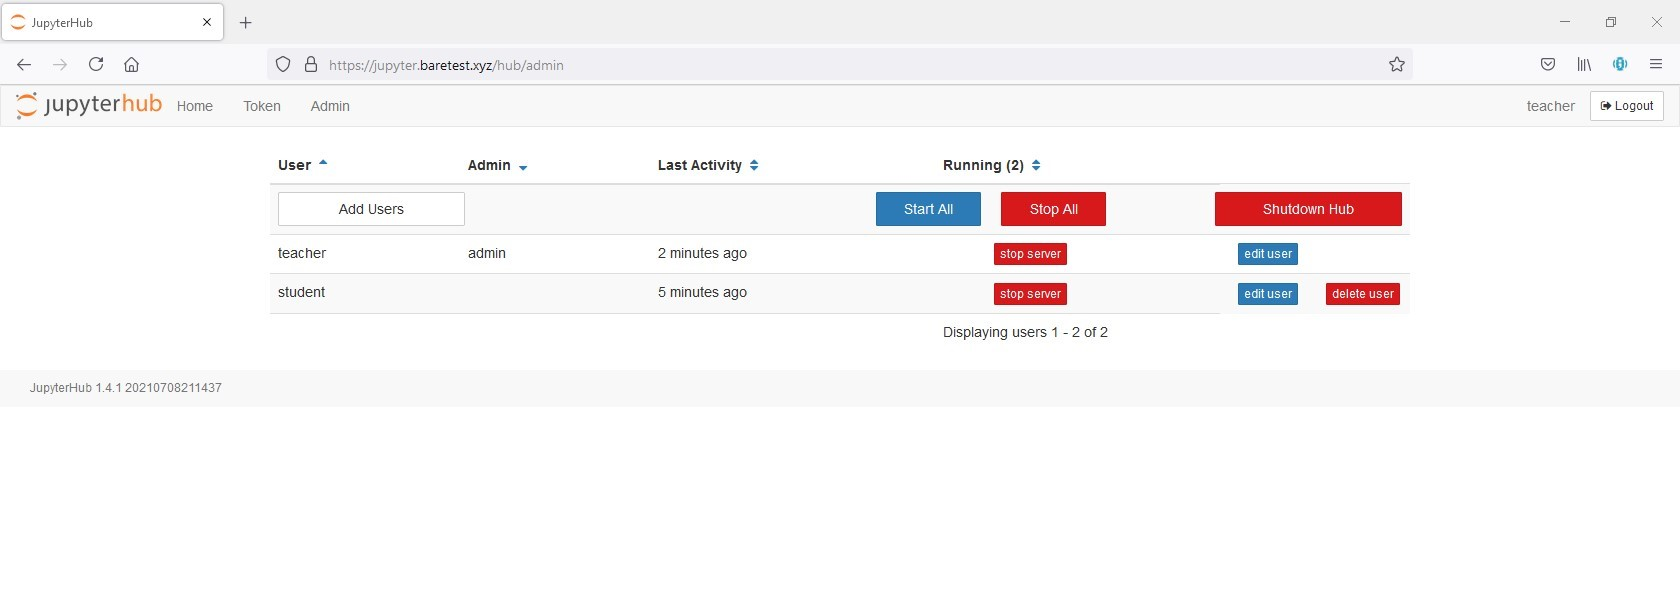
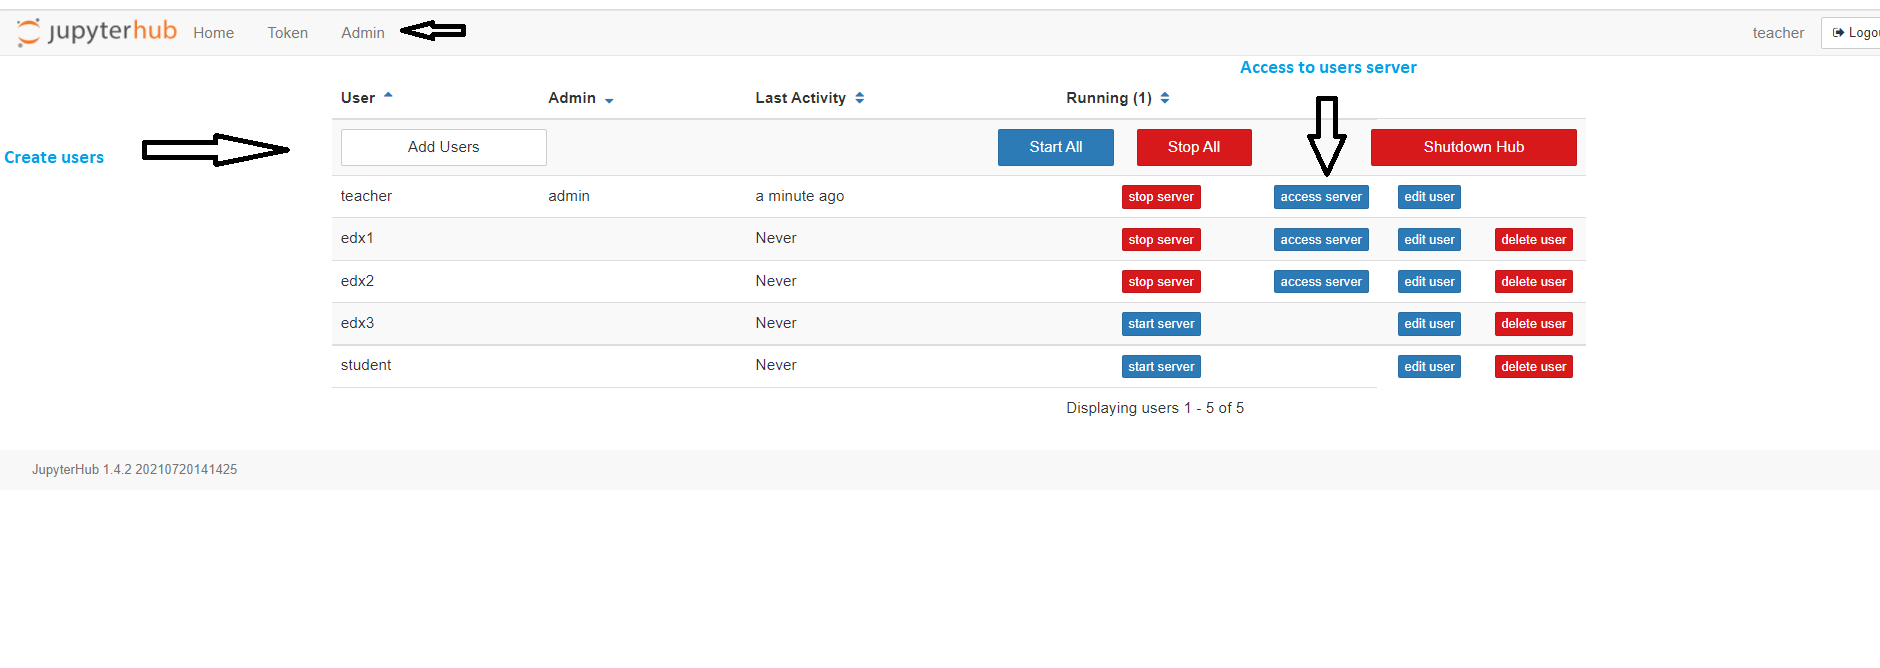
Readme updated

diff --git a/README.md b/README.md
@@ -39,7 +39,16 @@ Jupyterhub XBlock comes with to main users " student (password: solo) " and " te
 
 - You need to create a notebook for students view in your course.To do that click to " `Start JupyterHub in new tab`" login as " student " password is "solo". Then New => Python3(ipykernel). dobbel click to "Untitled" and rename it whatever you want.
 
-![](/src/demoNotebook.jpg)
+### JupyterLab:
+
+JupyterLab is next-generations, great advanced tools for everyone. Not just a notebook,that comes with text editor, console, terminal and much more. For more information please visit https://jupyterlab.readthedocs.io/en/stable/getting_started/overview.html
+
+To start JupyterLab just click the " Start JupyterLab in new tab " Now all lab ready for every Hub users.
+
+
+Now you can write your entire course with Jupyter tools :)
+
+![](/src/Lab.png)
 
  Copy the URL of your notebook and paste in " Edit=> JupyterNotebook URL" save and refresh your page. Now your notebook is ready to publish.
 
@@ -50,18 +59,32 @@ Students can change, edit, share, rename. It may be a good idea to save as a sep
 
 ### User administration:
 
-Start new browser and login as a "teacher" which is administrator of JupyterHub/JupyterLab Password is: 'soloadmin'.
-Click to 'Control Panel' => 'Admin'
+### Create multiple Notebook users (Spawners)
+
+Login as a teacher(password: soloadmin) => clik to Control Panel then => Admin
 
 ![](/src/adminPanel.jpg)
 
-Here you can add/delete new user, admin, start and stop server. But for changing password or assigning a password for new users, you must go in the contaniner. To do that:
+Here you can add multiple user which is pre installed via the Dockerfile (https://github.com/murat-polat/tutor-contrib-jupyter/blob/master/tutorjupyter/templates/jupyter/build/jupyter/Dockerfile).. By default can be added 100 users(edx0,edx1, edx2..... edx100), which can be populated in user_list.txt file (https://github.com/murat-polat/tutor-contrib-jupyter/blob/master/tutorjupyter/templates/jupyter/build/jupyter/user_list.txt)
 
-`$  docker exec -it tutor_local_jupyter_1 bash`
+Exampel: 
+We want to add 10 new JupyterLab users. To do that, click to => Add Users button, usernames sparated bylines, then => Add Users. 
 
-`$ passwd teacher` and give new password for this admin user
+![](/src/add_users.png)
+now you have 10 newuser. Username and password is same (e.g. Username: edx10, Password: edx10) here teacher can access all users notebook or other their files.
 
-![](/src/changePass.jpg)
+For courses " Student " is common user, but all users can use their own server, doesn't matter. Teacher should be uses for user administrations. Because basic user can not see or edit admin(teacher) files :)
+
+### Video chat with Jitsi (WebRTC):
+Login which user do you want, give name to your VideoChat rom, then click to "JOIN" button.
+![](/src/jitsi.png)
+
+Ask to other paticipants to join your meeting. Link will be same lab, and same rom.
+(e.g https://jupyter.yourdomain/user/edx1/lab) login Join the same rom(TestRom)
+
+![](/src/jitsi2.png)
+
+
 
 
 
